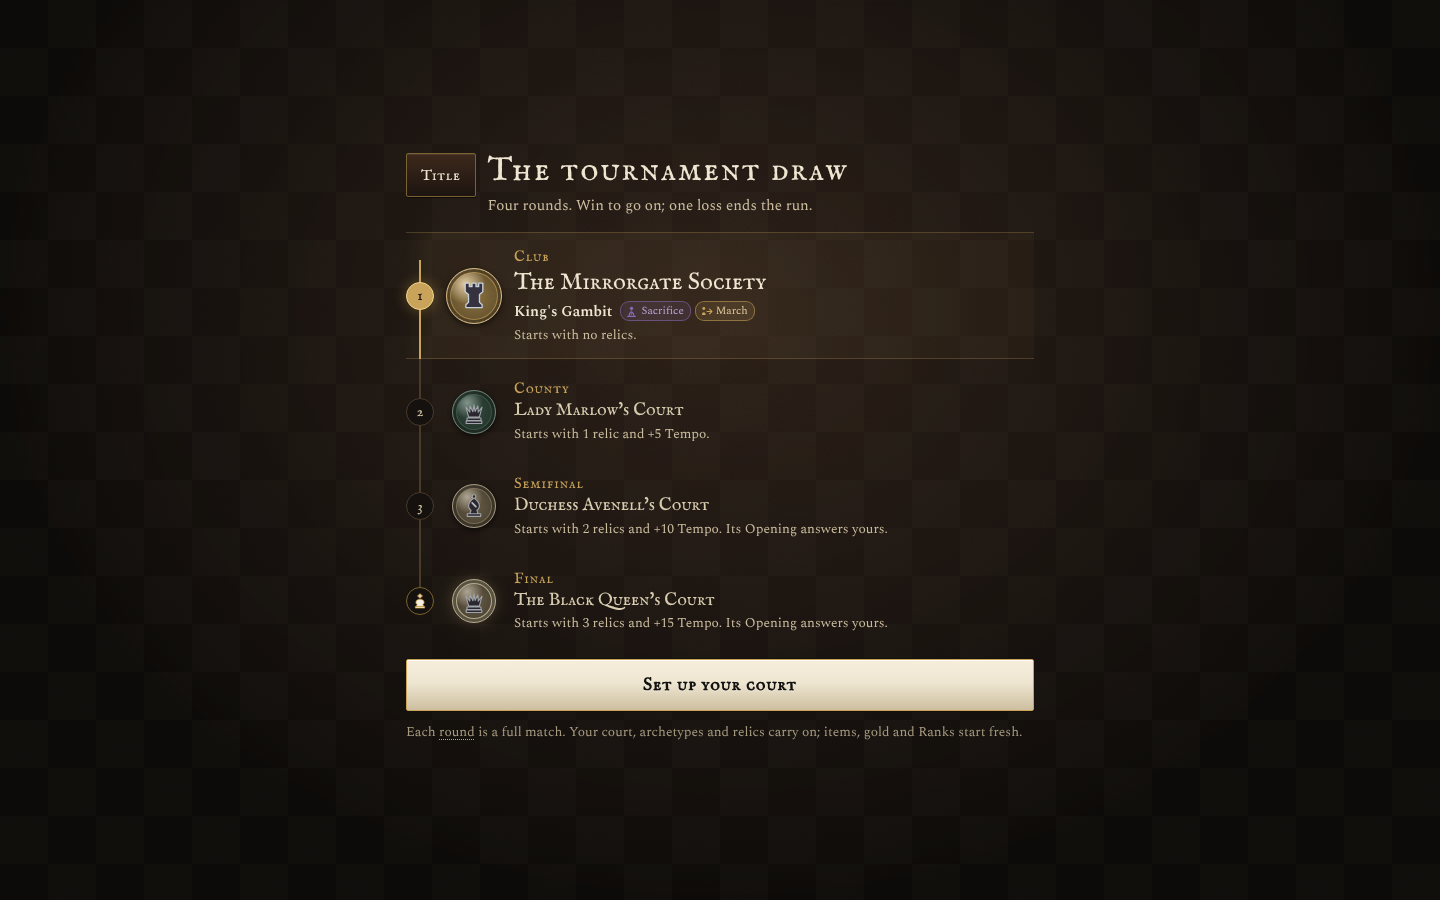
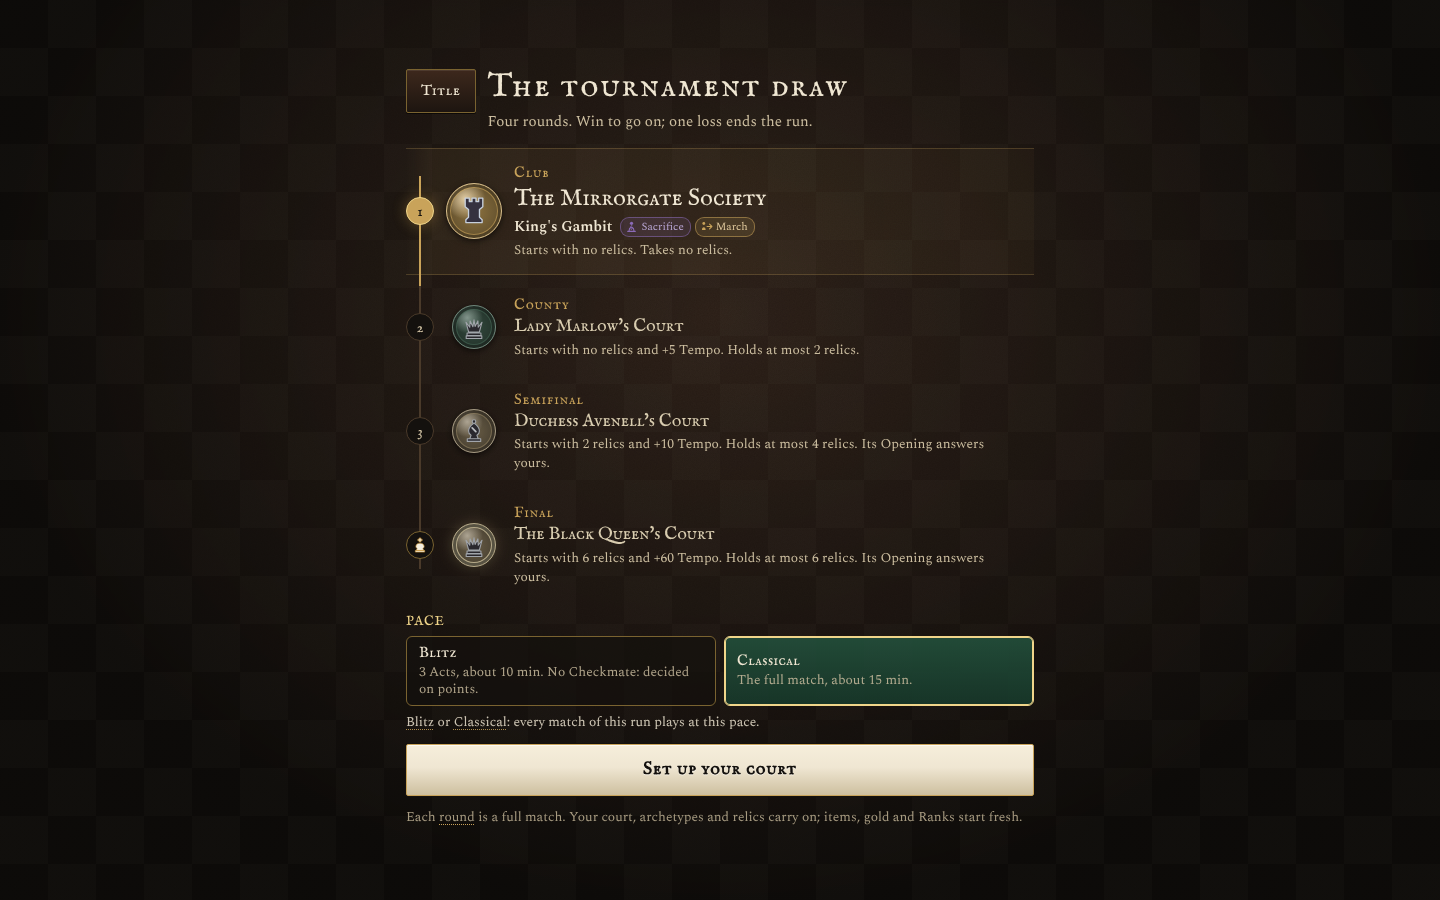
Pace switch fits the phone Draw: names-only options with the picked line below, sticky footer in portrait
Claude-Session: https://claude.ai/code/session_01NfjPZSFNXY97ZNu7wyb6ss

Changed region(s): [[0.2812, 0.5289, 0.7188, 0.9333], [0.2812, 0.0622, 0.5938, 0.4044], [0.3125, 0.4356, 0.6875, 0.4978]]

diff --git a/src/ui/css/controls.css b/src/ui/css/controls.css
@@ -616,3 +616,22 @@ table.stats td:first-child {
   font-size: var(--fs-sm);
   opacity: 0.85;
 }
+/* desktop: each option carries its own line; phones: names only, the picked one's line below */
+.pace-now {
+  display: none;
+  margin: 0;
+  font-size: var(--fs-sm);
+  opacity: 0.85;
+}
+html:is([data-layout='portrait'], [data-layout='landscape']) .pace-opt {
+  min-height: 44px;
+  justify-items: center;
+  text-align: center;
+}
+html:is([data-layout='portrait'], [data-layout='landscape']) .pace-opt span,
+html:is([data-layout='portrait'], [data-layout='landscape']) .pace-note {
+  display: none;
+}
+html:is([data-layout='portrait'], [data-layout='landscape']) .pace-now {
+  display: block;
+}

diff --git a/src/ui/css/run.css b/src/ui/css/run.css
@@ -947,3 +947,11 @@ html[data-layout='landscape'] .sum-foot .rs-cta {
 .btn.small.sound-toggle {
   min-height: 44px;
 }
+/* portrait Draw: the pace switch and Set up your court stay on screen while the ladder scrolls */
+html[data-layout='portrait'] .draw .rs-foot {
+  position: sticky;
+  bottom: 0;
+  z-index: 1;
+  padding: 10px 0 calc(10px + env(safe-area-inset-bottom));
+  background: linear-gradient(180deg, rgba(20, 17, 14, 0), rgba(20, 17, 14, 0.94) 18px);
+}

diff --git a/src/ui/PacePicker.tsx b/src/ui/PacePicker.tsx
@@ -35,6 +35,7 @@ export function PacePicker(props: {
           </button>
         ))}
       </div>
+      <p class="pace-now">{OPTIONS.find((o) => o.id === props.value)?.line}</p>
       {props.note && (
         <p class="pace-note">
           <Term id="blitz">Blitz</Term> or <Term id="classical">Classical</Term>: {props.note}
